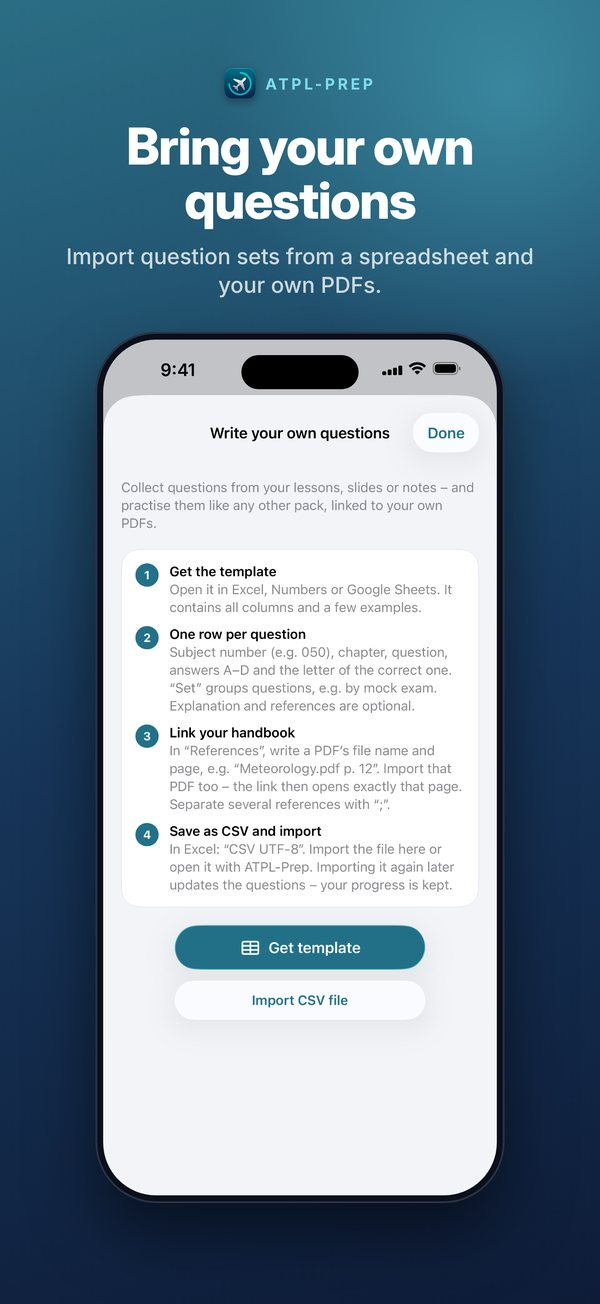
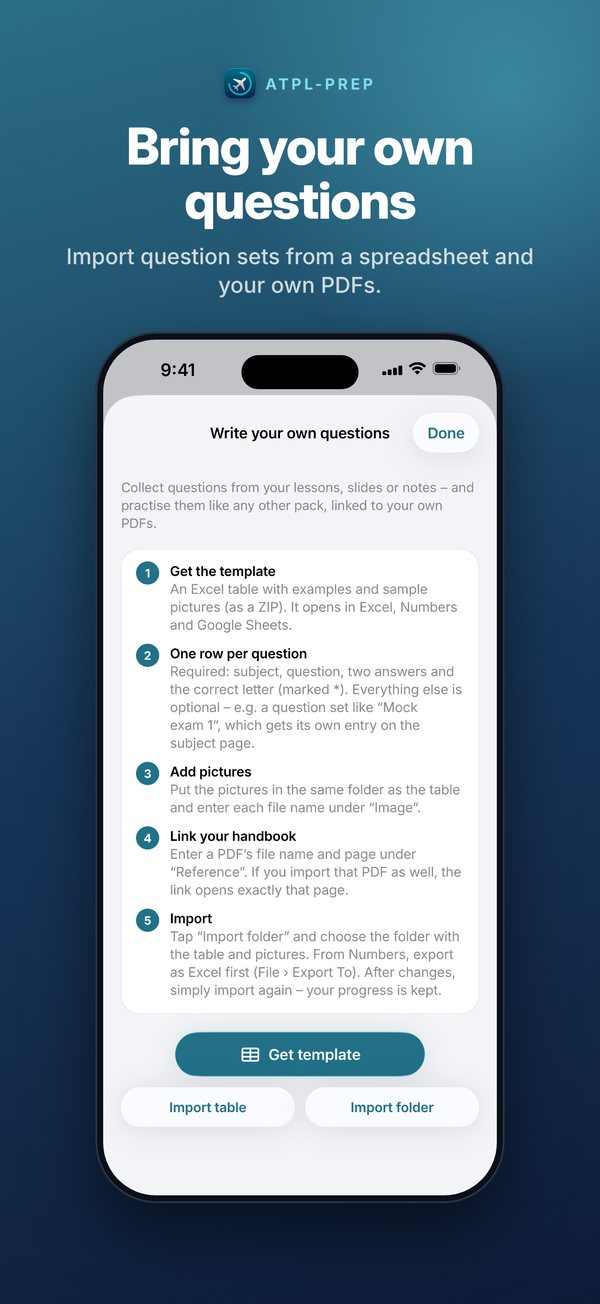
Add files via upload

Changed region(s): [[0.21, 0.4294, 0.75, 0.8589]]

diff --git a/atpl-prep/de.html b/atpl-prep/de.html
@@ -13,7 +13,7 @@
 <body>
 <header class="top"><div class="wrap"><nav><a class="brand" href="de.html"><img src="../assets/icon-180.png" alt="">ATPL-Prep</a><a href="support-de.html">Support</a><a href="datenschutz.html">Datenschutz</a><a class="lang" href="index.html" hreflang="en">English</a></nav><section class="hero"><img class="icon" src="../assets/icon-512.png" alt=""><h1>ATPL-Prep</h1><p>Deine eigenen ATPL-Fragen als Prüfungstrainer. Importiere deine Fragenkataloge und Handbücher und übe auf iPhone, iPad und Mac.</p><span class="btn soon">Bald im App Store</span></section></div></header>
 <main><div class="wrap">
-<div class="shots"><img src="../assets/08-guide.jpg" alt="" loading="lazy"><img src="../assets/01-training.jpg" alt="" loading="lazy"><img src="../assets/02-question.jpg" alt="" loading="lazy"><img src="../assets/06-handbook.jpg" alt="" loading="lazy"><img src="../assets/04-ranking.jpg" alt="" loading="lazy"></div><h2>So funktioniert's</h2><div class="grid"><div class="card"><h3>1  Importieren</h3><p>Lade deinen Fragenkatalog als CSV-Datei und auf Wunsch deine Handbücher als PDF in die App.</p></div><div class="card"><h3>2  Üben</h3><p>Lerne nach Fächern oder starte eine Prüfungssimulation. Jede Frage kann die passende Handbuchseite öffnen.</p></div><div class="card"><h3>3  Überblick behalten</h3><p>Sieh, wo du in jedem Fach stehst und was noch fehlt.</p></div></div><h2>Funktionen</h2><div class="grid"><div class="card"><h3>Deine eigenen Fragen</h3><p>Importiere die Fragenkataloge, mit denen du lernst, als CSV-Datei. Vorlage und Schritt-für-Schritt-Anleitung sind in der App.</p></div><div class="card"><h3>Deine eigenen Handbücher</h3><p>Füge deine Handbücher als PDF hinzu und verknüpfe jede Frage mit der passenden Seite.</p></div><div class="card"><h3>Üben nach Fächern</h3><p>Deine Fragen nach den 13 ATPL-Fächern sortiert, mit einem Lernstand, der sich merkt, woran du noch arbeiten solltest.</p></div><div class="card"><h3>Prüfungssimulation</h3><p>Testdurchläufe über ein Fach oder ein ganzes Fragenpaket, mit Auswertung danach.</p></div><div class="card"><h3>Lerngruppen</h3><p>Vergleiche deine tägliche Aktivität mit deinem Kurs per Einladungslink. Geteilt werden nur dein Name und die Anzahl der Fragen.</p></div><div class="card"><h3>iPhone, iPad und Mac</h3><p>Dein Lernstand synchronisiert sich über deine eigene iCloud. Kein Konto, keine Werbung, kein Tracking.</p></div></div><p style="color:var(--muted);font-size:15px;margin-top:20px">ATPL-Prep ist ein unabhängiges Lernangebot ohne Verbindung zur EASA, zum LBA oder zu Prüfungsanbietern. Die App bringt keinen eigenen Fragenkatalog mit, sondern ist für die Fragen gemacht, die du importierst. Zum Ausprobieren ist eine kleine Demo mit Beispielfragen zu jedem Fach enthalten.</p>
+<div class="shots"><img src="../assets/08-guide.jpg" alt="" loading="lazy"><img src="../assets/01-training.jpg" alt="" loading="lazy"><img src="../assets/02-question.jpg" alt="" loading="lazy"><img src="../assets/06-handbook.jpg" alt="" loading="lazy"><img src="../assets/04-ranking.jpg" alt="" loading="lazy"></div><h2>Auch auf iPad und Mac</h2><div class="devices"><img src="../assets/mac-training.jpg" alt="ATPL-Prep on the Mac" loading="lazy"><img src="../assets/ipad-training.jpg" alt="ATPL-Prep on the iPad" loading="lazy"></div><h2>So funktioniert's</h2><div class="grid"><div class="card"><h3>1  Importieren</h3><p>Lade deinen Fragenkatalog als Excel- oder CSV-Tabelle – gern mit Bildern – und deine Handbücher als PDF in die App.</p></div><div class="card"><h3>2  Üben</h3><p>Lerne nach Fächern oder starte eine Prüfungssimulation. Jede Frage kann die passende Handbuchseite öffnen.</p></div><div class="card"><h3>3  Überblick behalten</h3><p>Sieh, wo du in jedem Fach stehst und was noch fehlt.</p></div></div><h2>Funktionen</h2><div class="grid"><div class="card"><h3>Deine eigenen Fragen</h3><p>Importiere die Fragenkataloge, mit denen du lernst, als Excel- oder CSV-Tabelle – auch mit Bildern. Eine Vorlage mit Beispielen und eine Schritt-für-Schritt-Anleitung sind in der App.</p></div><div class="card"><h3>Deine eigenen Handbücher</h3><p>Füge deine Handbücher als PDF hinzu und verknüpfe jede Frage mit der passenden Seite.</p></div><div class="card"><h3>Üben nach Fächern</h3><p>Deine Fragen nach den 13 ATPL-Fächern sortiert, mit einem Lernstand, der sich merkt, woran du noch arbeiten solltest.</p></div><div class="card"><h3>Prüfungssimulation</h3><p>Testdurchläufe über ein Fach oder einen Fragensatz, mit Auswertung danach.</p></div><div class="card"><h3>Lerngruppen</h3><p>Vergleiche deine tägliche Aktivität mit deinem Kurs per Einladungslink. Geteilt werden nur dein Name und die Anzahl der Fragen.</p></div><div class="card"><h3>iPhone, iPad und Mac</h3><p>Dein Lernstand synchronisiert sich über deine eigene iCloud. Kein Konto, keine Werbung, kein Tracking.</p></div></div><p style="color:var(--muted);font-size:15px;margin-top:20px">ATPL-Prep ist ein unabhängiges Lernangebot ohne Verbindung zur EASA, zum LBA oder zu Prüfungsanbietern. Die App bringt keinen eigenen Fragenkatalog mit, sondern ist für die Fragen gemacht, die du importierst. Zum Ausprobieren ist eine kleine Demo mit Beispielfragen zu jedem Fach enthalten.</p>
 </div></main>
 <footer><div class="wrap"><div class="links"><a href="support-de.html">Support</a><a href="datenschutz.html">Datenschutz</a><a href="nutzungsbedingungen.html">Nutzungsbedingungen</a><a href="../impressum.html">Impressum</a></div><div style="margin-top:10px">© 2026 Jannik Herre · <a href="../de/index.html">Bernoulli Prep</a></div></div></footer>
 </body>

diff --git a/atpl-prep/index.html b/atpl-prep/index.html
@@ -13,7 +13,7 @@
 <body>
 <header class="top"><div class="wrap"><nav><a class="brand" href="index.html"><img src="../assets/icon-180.png" alt="">ATPL-Prep</a><a href="support.html">Support</a><a href="privacy.html">Privacy</a><a class="lang" href="de.html" hreflang="de">Deutsch</a></nav><section class="hero"><img class="icon" src="../assets/icon-512.png" alt=""><h1>ATPL-Prep</h1><p>Your own ATPL questions, turned into an exam trainer. Import your question catalogues and handbooks and practise on iPhone, iPad and Mac.</p><span class="btn soon">Coming soon to the App Store</span></section></div></header>
 <main><div class="wrap">
-<div class="shots"><img src="../assets/08-guide.jpg" alt="" loading="lazy"><img src="../assets/01-training.jpg" alt="" loading="lazy"><img src="../assets/02-question.jpg" alt="" loading="lazy"><img src="../assets/06-handbook.jpg" alt="" loading="lazy"><img src="../assets/04-ranking.jpg" alt="" loading="lazy"></div><h2>How it works</h2><div class="grid"><div class="card"><h3>1  Import</h3><p>Bring in your question catalogue as a CSV file and, if you like, your PDF handbooks.</p></div><div class="card"><h3>2  Practise</h3><p>Learn by subject or run an exam session. Every question can open the matching handbook page.</p></div><div class="card"><h3>3  Keep track</h3><p>See where you stand in each subject and what still needs work.</p></div></div><h2>Features</h2><div class="grid"><div class="card"><h3>Your own questions</h3><p>Import the question catalogues you work with as a CSV file. A template and a step-by-step guide are built into the app.</p></div><div class="card"><h3>Your own handbooks</h3><p>Add your PDF handbooks and link each question to the right page.</p></div><div class="card"><h3>Practice by subject</h3><p>Your questions sorted into the 13 ATPL subjects, with progress that remembers what you still need to work on.</p></div><div class="card"><h3>Exam sessions</h3><p>Test sessions across a subject or a whole question pack, with a review afterwards.</p></div><div class="card"><h3>Study groups</h3><p>Compare daily activity with your class via an invitation link. Only your name and question counts are shared.</p></div><div class="card"><h3>iPhone, iPad and Mac</h3><p>Your progress syncs through your own iCloud. No account, no ads, no tracking.</p></div></div><p style="color:var(--muted);font-size:15px;margin-top:20px">ATPL-Prep is an independent study aid and is not affiliated with EASA, the LBA or any examination provider. The app does not come with its own question bank: it is built for the questions you import. A small demo with sample questions for every subject is included so you can try it first.</p>
+<div class="shots"><img src="../assets/08-guide.jpg" alt="" loading="lazy"><img src="../assets/01-training.jpg" alt="" loading="lazy"><img src="../assets/02-question.jpg" alt="" loading="lazy"><img src="../assets/06-handbook.jpg" alt="" loading="lazy"><img src="../assets/04-ranking.jpg" alt="" loading="lazy"></div><h2>Also on iPad and Mac</h2><div class="devices"><img src="../assets/mac-training.jpg" alt="ATPL-Prep on the Mac" loading="lazy"><img src="../assets/ipad-training.jpg" alt="ATPL-Prep on the iPad" loading="lazy"></div><h2>How it works</h2><div class="grid"><div class="card"><h3>1  Import</h3><p>Bring in your question catalogue as an Excel or CSV table – with pictures if you like – and your PDF handbooks.</p></div><div class="card"><h3>2  Practise</h3><p>Learn by subject or run an exam session. Every question can open the matching handbook page.</p></div><div class="card"><h3>3  Keep track</h3><p>See where you stand in each subject and what still needs work.</p></div></div><h2>Features</h2><div class="grid"><div class="card"><h3>Your own questions</h3><p>Import the question catalogues you work with as an Excel or CSV table – pictures included. A template with examples and a step-by-step guide are built into the app.</p></div><div class="card"><h3>Your own handbooks</h3><p>Add your PDF handbooks and link each question to the right page.</p></div><div class="card"><h3>Practice by subject</h3><p>Your questions sorted into the 13 ATPL subjects, with progress that remembers what you still need to work on.</p></div><div class="card"><h3>Exam sessions</h3><p>Test sessions across a subject or a question set, with a review afterwards.</p></div><div class="card"><h3>Study groups</h3><p>Compare daily activity with your class via an invitation link. Only your name and question counts are shared.</p></div><div class="card"><h3>iPhone, iPad and Mac</h3><p>Your progress syncs through your own iCloud. No account, no ads, no tracking.</p></div></div><p style="color:var(--muted);font-size:15px;margin-top:20px">ATPL-Prep is an independent study aid and is not affiliated with EASA, the LBA or any examination provider. The app does not come with its own question bank: it is built for the questions you import. A small demo with sample questions for every subject is included so you can try it first.</p>
 </div></main>
 <footer><div class="wrap"><div class="links"><a href="support.html">Support</a><a href="privacy.html">Privacy</a><a href="terms.html">Terms</a><a href="../imprint.html">Imprint</a></div><div style="margin-top:10px">© 2026 Jannik Herre · <a href="../index.html">Bernoulli Prep</a></div></div></footer>
 </body>

diff --git a/atpl-prep/support-de.html b/atpl-prep/support-de.html
@@ -13,7 +13,7 @@
 <body>
 <header class="top"><div class="wrap"><nav><a class="brand" href="de.html"><img src="../assets/icon-180.png" alt="">ATPL-Prep</a><a href="support-de.html">Support</a><a href="datenschutz.html">Datenschutz</a><a class="lang" href="support.html" hreflang="en">English</a></nav></div></header>
 <main><div class="wrap">
-<article class="page"><h1>Support</h1><p class="sub">ATPL-Prep für iPhone, iPad und Mac</p><div class="card"><h3 style="margin-top:0">Kontakt</h3><p>Schreib an <a href="mailto:bernoulliprep@icloud.com?subject=ATPL-Prep%20Feedback">bernoulliprep@icloud.com</a>. Wir antworten meist innerhalb weniger Tage. Wenn etwas nicht funktioniert, nenn uns bitte Gerät und App-Version.</p></div><h2>Häufige Fragen</h2><div class="card"><details><summary>Wie kommen Fragen in die App?</summary><p>Die App enthält eine Demo mit Beispielfragen zu jedem Fach. Fragenkataloge kannst du als CSV-Datei importieren: die App enthält dafür eine Schritt-für-Schritt-Anleitung mit Vorlage.</p></details><details><summary>Synchronisiert sich mein Lernstand zwischen iPhone, iPad und Mac?</summary><p>Ja, wenn du auf allen Geräten mit demselben Apple Account bei iCloud angemeldet bist und iCloud für ATPL-Prep aktiviert ist. Auf iPhone und iPad zum Aktualisieren nach unten ziehen, auf dem Mac den Aktualisieren-Knopf nutzen.</p></details><details><summary>Wie funktionieren Lerngruppen?</summary><p>Erstelle im Tab Aktivität eine Gruppe und teile den Einladungslink mit deinem Kurs. Mitglieder sehen gegenseitig nur den Anzeigenamen und die Anzahl der Fragen pro Tag. Du kannst eine Gruppe jederzeit verlassen.</p></details><details><summary>Wer die Gruppe erstellt hat, ist ausgetreten. Was passiert?</summary><p>Eine Gruppe liegt in der iCloud der Person, die sie erstellt hat. Verlässt oder löscht sie die Gruppe, endet sie für alle; erstellt dann einfach eine neue.</p></details><details><summary>Wie lösche ich meine Daten?</summary><p>In den Einstellungen der App über „Zurücksetzen …“ oder durch Löschen der App. Die Kopie in iCloud entfernst du in den Einstellungen deines Geräts unter Apple Account › iCloud › Speicher verwalten.</p></details><details><summary>Ich habe einen Fehler in einer Frage gefunden.</summary><p>Danke! Schreib uns bitte mit Fach und Frage, am besten über die Support-Funktion in den Einstellungen der App.</p></details></div></article>
+<article class="page"><h1>Support</h1><p class="sub">ATPL-Prep für iPhone, iPad und Mac</p><div class="card"><h3 style="margin-top:0">Kontakt</h3><p>Schreib an <a href="mailto:bernoulliprep@icloud.com?subject=ATPL-Prep%20Feedback">bernoulliprep@icloud.com</a>. Wir antworten meist innerhalb weniger Tage. Wenn etwas nicht funktioniert, nenn uns bitte Gerät und App-Version.</p></div><h2>Häufige Fragen</h2><div class="card"><details><summary>Wie kommen Fragen in die App?</summary><p>Die App enthält eine Demo mit Beispielfragen zu jedem Fach. Eigene Fragenkataloge importierst du als Excel- oder CSV-Tabelle, auch mit Bildern: die App enthält dafür eine Vorlage mit Beispielen und eine Schritt-für-Schritt-Anleitung.</p></details><details><summary>Synchronisiert sich mein Lernstand zwischen iPhone, iPad und Mac?</summary><p>Ja, wenn du auf allen Geräten mit demselben Apple Account bei iCloud angemeldet bist und iCloud für ATPL-Prep aktiviert ist. Auf iPhone und iPad zum Aktualisieren nach unten ziehen, auf dem Mac den Aktualisieren-Knopf nutzen.</p></details><details><summary>Kann mich die App ans Lernen erinnern?</summary><p>Ja. Unter Einstellungen › Erinnerung wählst du täglich oder wöchentlich und eine Uhrzeit. An Tagen, an denen du schon gelernt hast, kommt keine Erinnerung.</p></details><details><summary>Wie funktionieren Lerngruppen?</summary><p>Erstelle im Tab Aktivität eine Gruppe und teile den Einladungslink mit deinem Kurs. Mitglieder sehen gegenseitig nur den Anzeigenamen und die Anzahl der Fragen pro Tag. Du kannst eine Gruppe jederzeit verlassen.</p></details><details><summary>Wer die Gruppe erstellt hat, ist ausgetreten. Was passiert?</summary><p>Eine Gruppe liegt in der iCloud der Person, die sie erstellt hat. Verlässt oder löscht sie die Gruppe, endet sie für alle; erstellt dann einfach eine neue.</p></details><details><summary>Wie lösche ich meine Daten?</summary><p>In den Einstellungen der App über „Zurücksetzen …“ oder durch Löschen der App. Die Kopie in iCloud entfernst du in den Einstellungen deines Geräts unter Apple Account › iCloud › Speicher verwalten.</p></details><details><summary>Ich habe einen Fehler in einer Frage gefunden.</summary><p>Danke! Schreib uns bitte mit Fach und Frage, am besten über die Support-Funktion in den Einstellungen der App.</p></details></div></article>
 </div></main>
 <footer><div class="wrap"><div class="links"><a href="support-de.html">Support</a><a href="datenschutz.html">Datenschutz</a><a href="nutzungsbedingungen.html">Nutzungsbedingungen</a><a href="../impressum.html">Impressum</a></div><div style="margin-top:10px">© 2026 Jannik Herre · <a href="../de/index.html">Bernoulli Prep</a></div></div></footer>
 </body>

diff --git a/atpl-prep/support.html b/atpl-prep/support.html
@@ -13,7 +13,7 @@
 <body>
 <header class="top"><div class="wrap"><nav><a class="brand" href="index.html"><img src="../assets/icon-180.png" alt="">ATPL-Prep</a><a href="support.html">Support</a><a href="privacy.html">Privacy</a><a class="lang" href="support-de.html" hreflang="de">Deutsch</a></nav></div></header>
 <main><div class="wrap">
-<article class="page"><h1>Support</h1><p class="sub">ATPL-Prep for iPhone, iPad and Mac</p><div class="card"><h3 style="margin-top:0">Contact</h3><p>Write to <a href="mailto:bernoulliprep@icloud.com?subject=ATPL-Prep%20Feedback">bernoulliprep@icloud.com</a>. We usually reply within a few days. Please tell us your device and app version if something isn't working.</p></div><h2>Frequently asked questions</h2><div class="card"><details><summary>How do I get questions into the app?</summary><p>The app includes a demo with sample questions for every subject. You can import question catalogues as CSV files: the app includes a step-by-step guide with a template.</p></details><details><summary>Does my progress sync between iPhone, iPad and Mac?</summary><p>Yes, if you are signed in to iCloud with the same Apple Account on all devices and iCloud is enabled for ATPL-Prep. Pull down to refresh on iPhone and iPad, or use the refresh button on the Mac.</p></details><details><summary>How do study groups work?</summary><p>On the Activity tab, create a group and share the invitation link with your class. Members see each other&#x27;s display name and the number of questions answered per day, nothing else. You can leave a group at any time.</p></details><details><summary>The creator of my group left. What happens?</summary><p>A group is stored in the creator&#x27;s iCloud. If the creator leaves or deletes it, the group ends for everyone; simply create a new one.</p></details><details><summary>How do I delete my data?</summary><p>In the app&#x27;s settings use &quot;Reset…&quot;, or delete the app. The iCloud copy can be removed in your device settings under Apple Account › iCloud › Manage Storage.</p></details><details><summary>I found a mistake in a question.</summary><p>Thank you! Please write to us with the subject and question, ideally via the support function in the app&#x27;s settings.</p></details></div></article>
+<article class="page"><h1>Support</h1><p class="sub">ATPL-Prep for iPhone, iPad and Mac</p><div class="card"><h3 style="margin-top:0">Contact</h3><p>Write to <a href="mailto:bernoulliprep@icloud.com?subject=ATPL-Prep%20Feedback">bernoulliprep@icloud.com</a>. We usually reply within a few days. Please tell us your device and app version if something isn't working.</p></div><h2>Frequently asked questions</h2><div class="card"><details><summary>How do I get questions into the app?</summary><p>The app includes a demo with sample questions for every subject. You can import your own question catalogues as an Excel or CSV table, with pictures: the app includes a template with examples and a step-by-step guide.</p></details><details><summary>Does my progress sync between iPhone, iPad and Mac?</summary><p>Yes, if you are signed in to iCloud with the same Apple Account on all devices and iCloud is enabled for ATPL-Prep. Pull down to refresh on iPhone and iPad, or use the refresh button on the Mac.</p></details><details><summary>Can the app remind me to study?</summary><p>Yes. In Settings › Reminder you choose daily or weekly and a time. On days you have already studied, there is no reminder.</p></details><details><summary>How do study groups work?</summary><p>On the Activity tab, create a group and share the invitation link with your class. Members see each other&#x27;s display name and the number of questions answered per day, nothing else. You can leave a group at any time.</p></details><details><summary>The creator of my group left. What happens?</summary><p>A group is stored in the creator&#x27;s iCloud. If the creator leaves or deletes it, the group ends for everyone; simply create a new one.</p></details><details><summary>How do I delete my data?</summary><p>In the app&#x27;s settings use &quot;Reset…&quot;, or delete the app. The iCloud copy can be removed in your device settings under Apple Account › iCloud › Manage Storage.</p></details><details><summary>I found a mistake in a question.</summary><p>Thank you! Please write to us with the subject and question, ideally via the support function in the app&#x27;s settings.</p></details></div></article>
 </div></main>
 <footer><div class="wrap"><div class="links"><a href="support.html">Support</a><a href="privacy.html">Privacy</a><a href="terms.html">Terms</a><a href="../imprint.html">Imprint</a></div><div style="margin-top:10px">© 2026 Jannik Herre · <a href="../index.html">Bernoulli Prep</a></div></div></footer>
 </body>

diff --git a/assets/style.css b/assets/style.css
@@ -34,6 +34,9 @@ h2{font-size:26px;letter-spacing:-.01em;margin:36px 0 12px}
 .grid .card h3{margin:0 0 6px;font-size:18px}.grid .card p{margin:0;color:var(--muted);font-size:16px}
 .shots{display:flex;gap:16px;overflow-x:auto;padding:6px 2px 16px;scroll-snap-type:x mandatory}
 .shots img{width:220px;flex:none;border-radius:22px;border:1px solid var(--line);scroll-snap-align:start}
+.devices{display:grid;grid-template-columns:1.6fr 1.333fr;gap:16px;margin-top:8px;align-items:start}
+.devices img{width:100%;border-radius:16px;border:1px solid var(--line);display:block}
+@media(max-width:700px){.devices{grid-template-columns:1fr}}
 .app-row{display:flex;gap:18px;align-items:center}
 .app-row img{width:72px;height:72px;border-radius:16px}
 .app-row h3{margin:0}.app-row p{margin:2px 0 0;color:var(--muted)}

diff --git a/imprint.html b/imprint.html
@@ -17,7 +17,7 @@
 <p>Jannik Herre<br>Carl-von-Noorden-Platz 10<br>60596 Frankfurt am Main<br>Germany</p>
 <p>Legal form: sole proprietorship</p>
 <h3>Contact</h3>
-<p>Phone: <a href="tel:+4915115588140" style="white-space:nowrap">+49 151 15588140</a><br>Email: <a href="mailto:bernoulliprep@icloud.com">bernoulliprep@icloud.com</a></p>
+<p>Phone: <a href="tel:+491636683446" style="white-space:nowrap">+49 163 6683446</a><br>Email: <a href="mailto:bernoulliprep@icloud.com">bernoulliprep@icloud.com</a></p>
 <h3>VAT identification number</h3>
 <p>VAT identification number pursuant to Section 27a of the German VAT Act: DE464839604</p>
 <h3>Responsible for editorial content pursuant to Section 18 (2) of the German Interstate Media Treaty (MStV)</h3>

diff --git a/impressum.html b/impressum.html
@@ -17,7 +17,7 @@
 <p>Jannik Herre<br>Carl-von-Noorden-Platz 10<br>60596 Frankfurt am Main<br>Deutschland</p>
 <p>Rechtsform: Einzelunternehmen</p>
 <h3>Kontakt</h3>
-<p>Telefon: <a href="tel:+4915115588140" style="white-space:nowrap">+49 151 15588140</a><br>E-Mail: <a href="mailto:bernoulliprep@icloud.com">bernoulliprep@icloud.com</a></p>
+<p>Telefon: <a href="tel:+491636683446" style="white-space:nowrap">+49 163 6683446</a><br>E-Mail: <a href="mailto:bernoulliprep@icloud.com">bernoulliprep@icloud.com</a></p>
 <h3>Umsatzsteuer-Identifikationsnummer</h3>
 <p>Umsatzsteuer-Identifikationsnummer nach § 27 a Umsatzsteuergesetz: DE464839604</p>
 <h3>Verantwortlich für den Inhalt nach § 18 Abs. 2 Medienstaatsvertrag (MStV)</h3>
